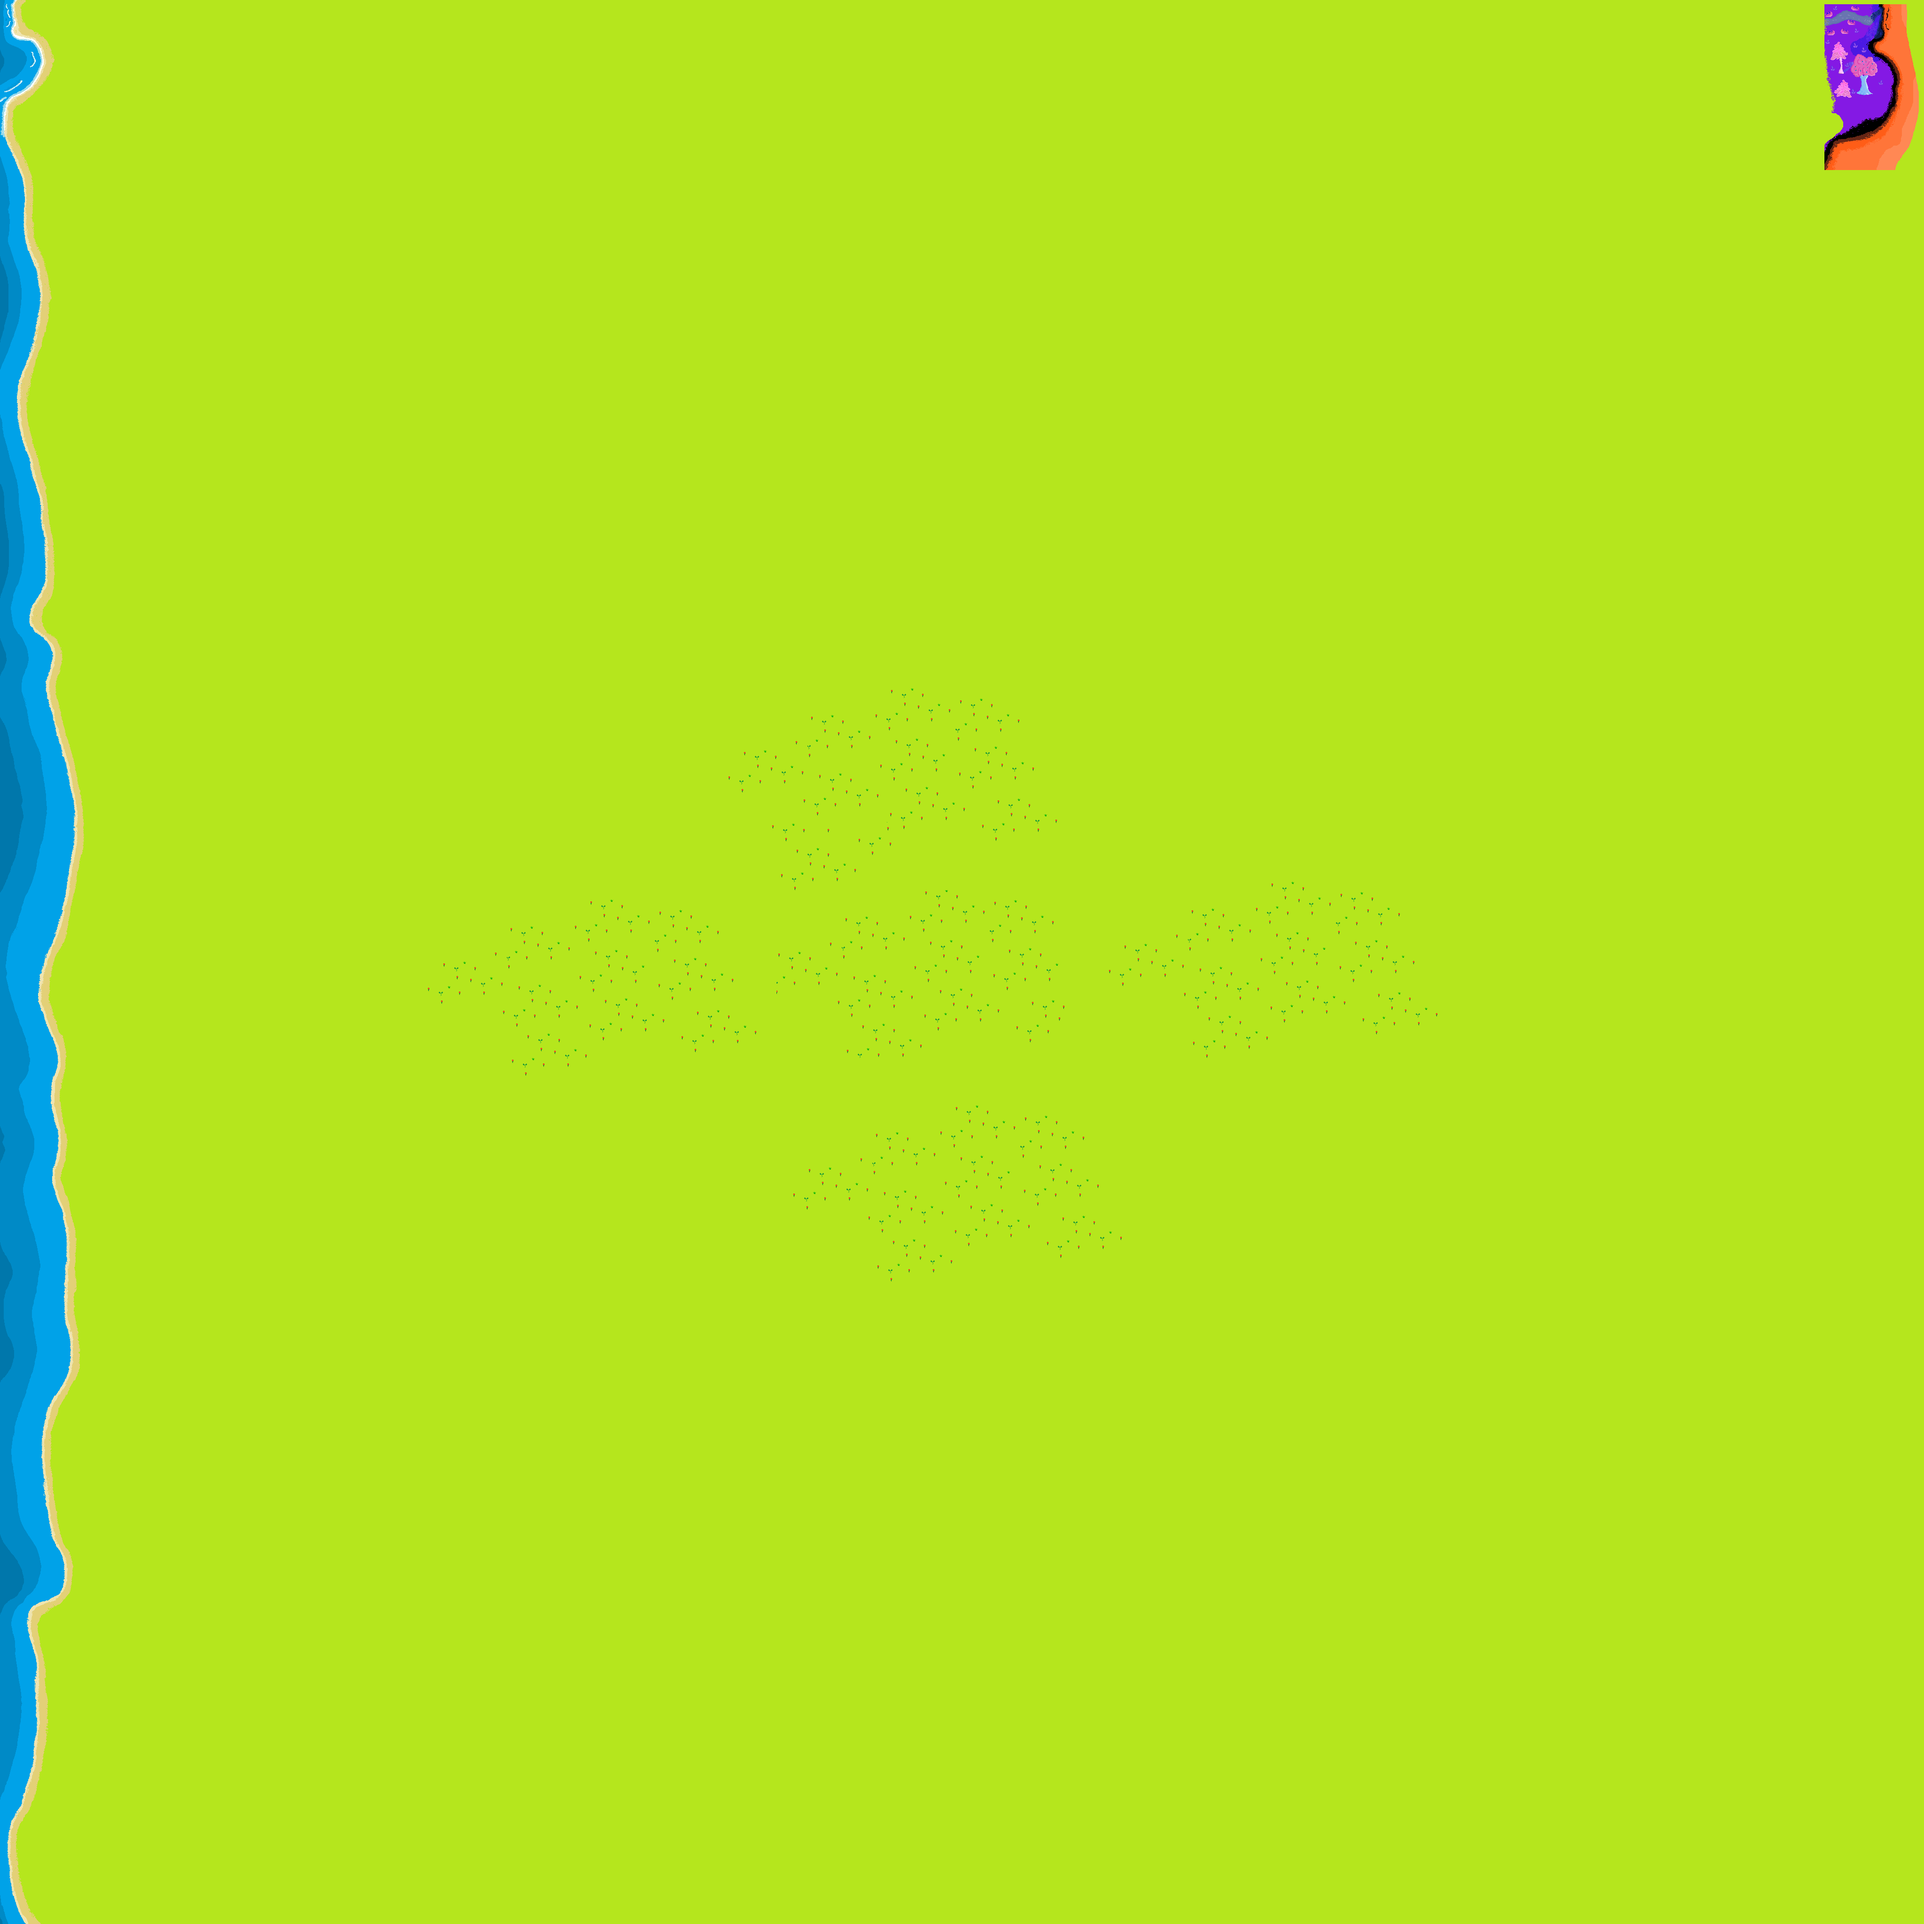
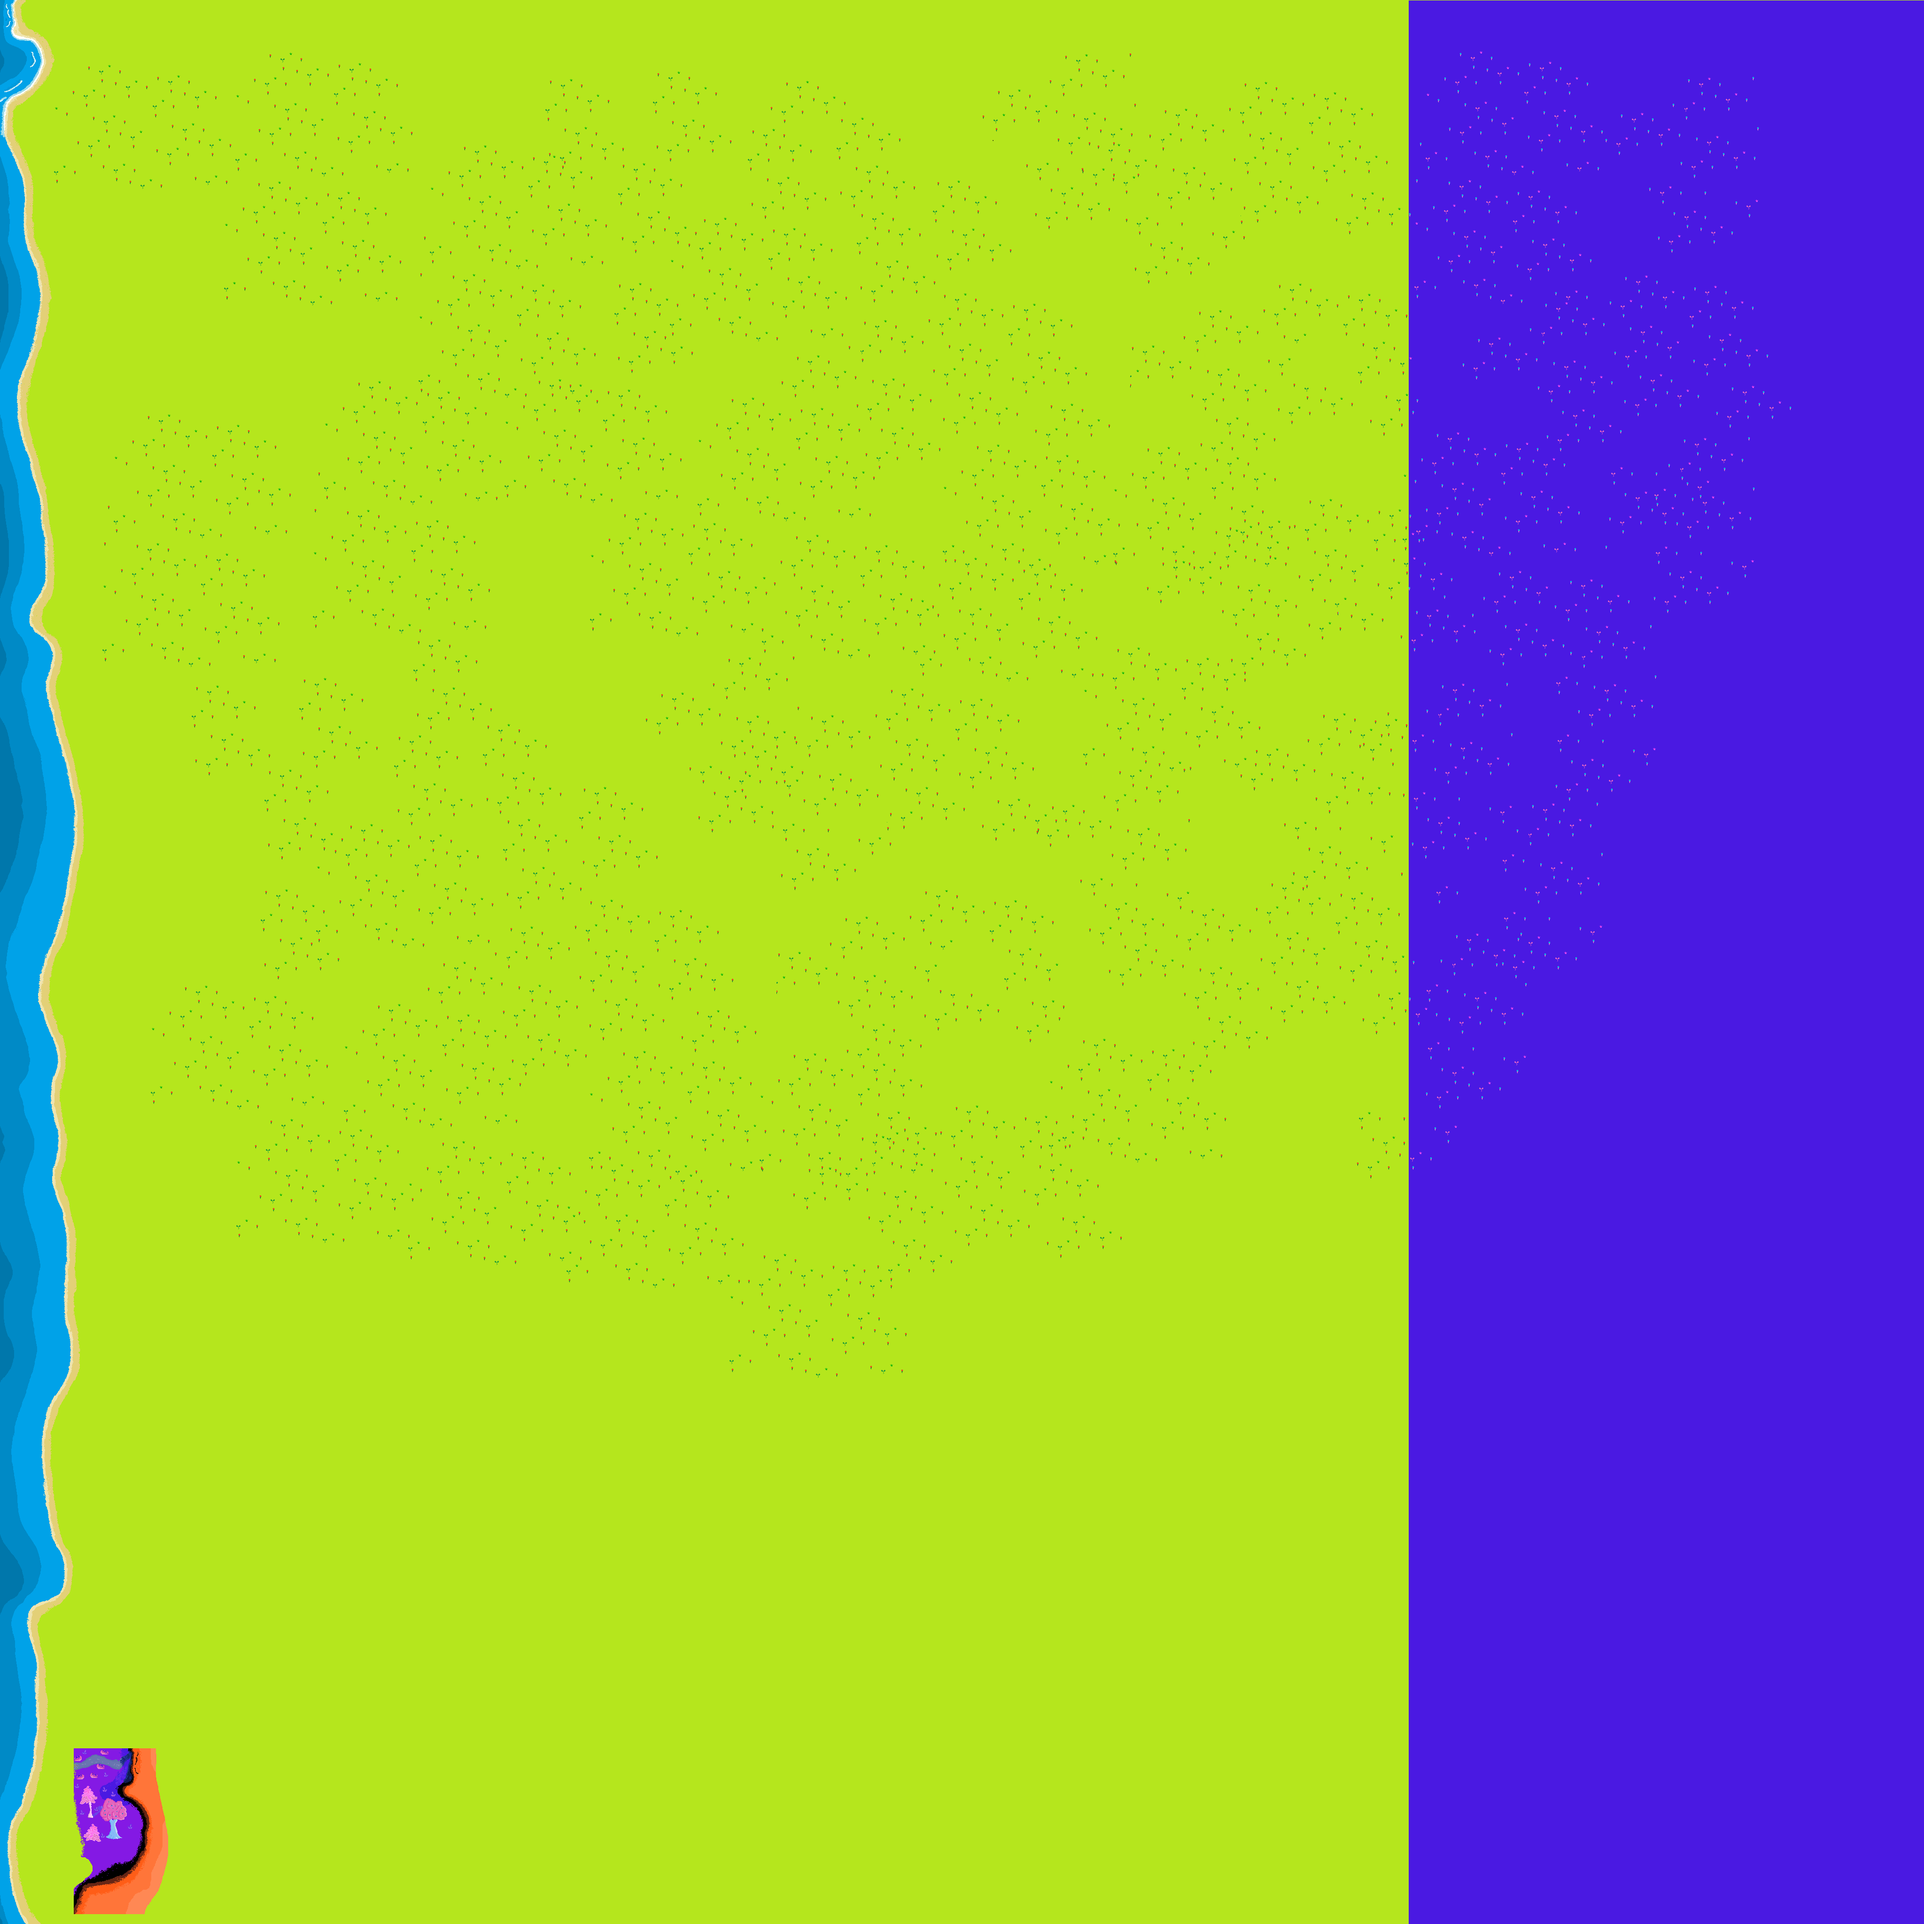
better plants, improved map

Changed region(s): [[0.7188, 0.0, 1.0, 1.0], [0.0312, 0.9062, 0.0938, 1.0]]

diff --git a/desktop/src/src/Sprites.java b/desktop/src/src/Sprites.java
@@ -9,7 +9,7 @@ import com.badlogic.gdx.graphics.g2d.TextureRegion;
 import com.badlogic.gdx.math.MathUtils;
 import com.badlogic.gdx.math.Matrix4;
 import com.badlogic.gdx.math.Rectangle;
-
+import com.badlogic.gdx.graphics.glutils.ShapeRenderer;
 import static com.badlogic.gdx.scenes.scene2d.actions.Actions.delay;
 
 public class Sprites {
@@ -165,37 +165,54 @@ public class Sprites {
     }
 
     public void drawManyPlantsNew() {
+int q;
         for (int j = 0; j < 800; j++) {
-                        drawPlant(0, (int) randomx[j] * 2, (int) (randomx[j] * 4000) + 48, (int) (randomy[j] * 4000));
+
+                        drawPlant(0, compare(((int) (randomx[j] * 3900) + 100), j), (int) (randomx[j] * 3900) + 100, (int) (randomy[j] * 3900) + 100);
                     }
 
 
         for (int j = 0; j < 300; j++) {
-                    drawPlant(1, (int) randomx[j] * 2, (int) (randomx[j + 800] * 4000) + 48, (int) (randomy[j + 800] * 4000));
+
+                    drawPlant(1, compare(((int) (randomx[j + 800] * 3900) + 100), j), (int) (randomx[j + 800] * 3900) + 100, (int) (randomy[j + 800] * 3900) + 100);
                 }
 
                 for (int j = 0; j < 200; j++) {
-                    drawPlant(2, (int) randomx[j] * 2, (int) (randomx[j + 1100] * 4000) + 48, (int) (randomy[j + 1100] * 4000));
+
+                    drawPlant(2, compare(((int) (randomx[j + 1100] * 3900) + 100), j), (int) (randomx[j + 1100] * 3900) + 100, (int) (randomy[j + 1100] * 3900) + 100);
                 }
 
 
                 for (int j = 0; j < 200; j++) {
-                    drawPlant(3, (int) randomx[j] * 2, (int) (randomx[j + 1300] * 4000) + 48, (int) (randomy[j + 1300] * 4000));
+
+                    drawPlant(3, compare(((int) (randomx[j + 1300] * 3900) + 100), j), (int) (randomx[j + 1300] * 3900) + 100, (int) (randomy[j + 1300] * 3900) + 100);
                 }
 
 
                 for (int j = 0; j < 150; j++) {
-                    drawPlant(4, (int) randomx[j] * 2, (int) (randomx[j + 1500] * 4000) + 48, (int) (randomy[j + 1500] * 4000));
+
+                    drawPlant(4, compare(((int) (randomx[j + 1500] * 3900) + 100), j), (int) (randomx[j + 1500] * 3900) + 100, (int) (randomy[j + 1500] * 3900) + 100);
                 }
 
 
                 for (int j = 0; j < 150; j++) {
-                    drawPlant(5, (int) randomx[j] * 2, (int) (randomx[j + 1650] * 4000) + 48, (int) (randomy[j + 1650] * 4000));
+
+                    drawPlant(5, compare(((int) (randomx[j + 1650] * 3900) + 100), j), (int) (randomx[j + 1650] * 3900) + 100, (int) (randomy[j + 1650] * 3900) + 100);
                 }
 
 
 
-
+    }
+    public int compare(int abscissa, int j){
+        int q;
+        if(abscissa < 3000){
+            q = (int) (randomx[j] * 2);
+        }
+        else if(((int) (randomx[j] * 2)) + 2 > 3)
+        {q = 3;}
+        else
+        {q = 2;}
+        return q;
     }
     public void drawTower(){
         drawPlant(1, 4, 2048, 2048);
@@ -241,7 +258,7 @@ public class Sprites {
     }
     public void endschrift(){
         batch.begin();
-        font.draw(batch,"druecke E zum starten",0,0);
+        font.draw(batch,"droecke E zum starten",0,0);
         batch.end();
     }
     public void leeren(){
